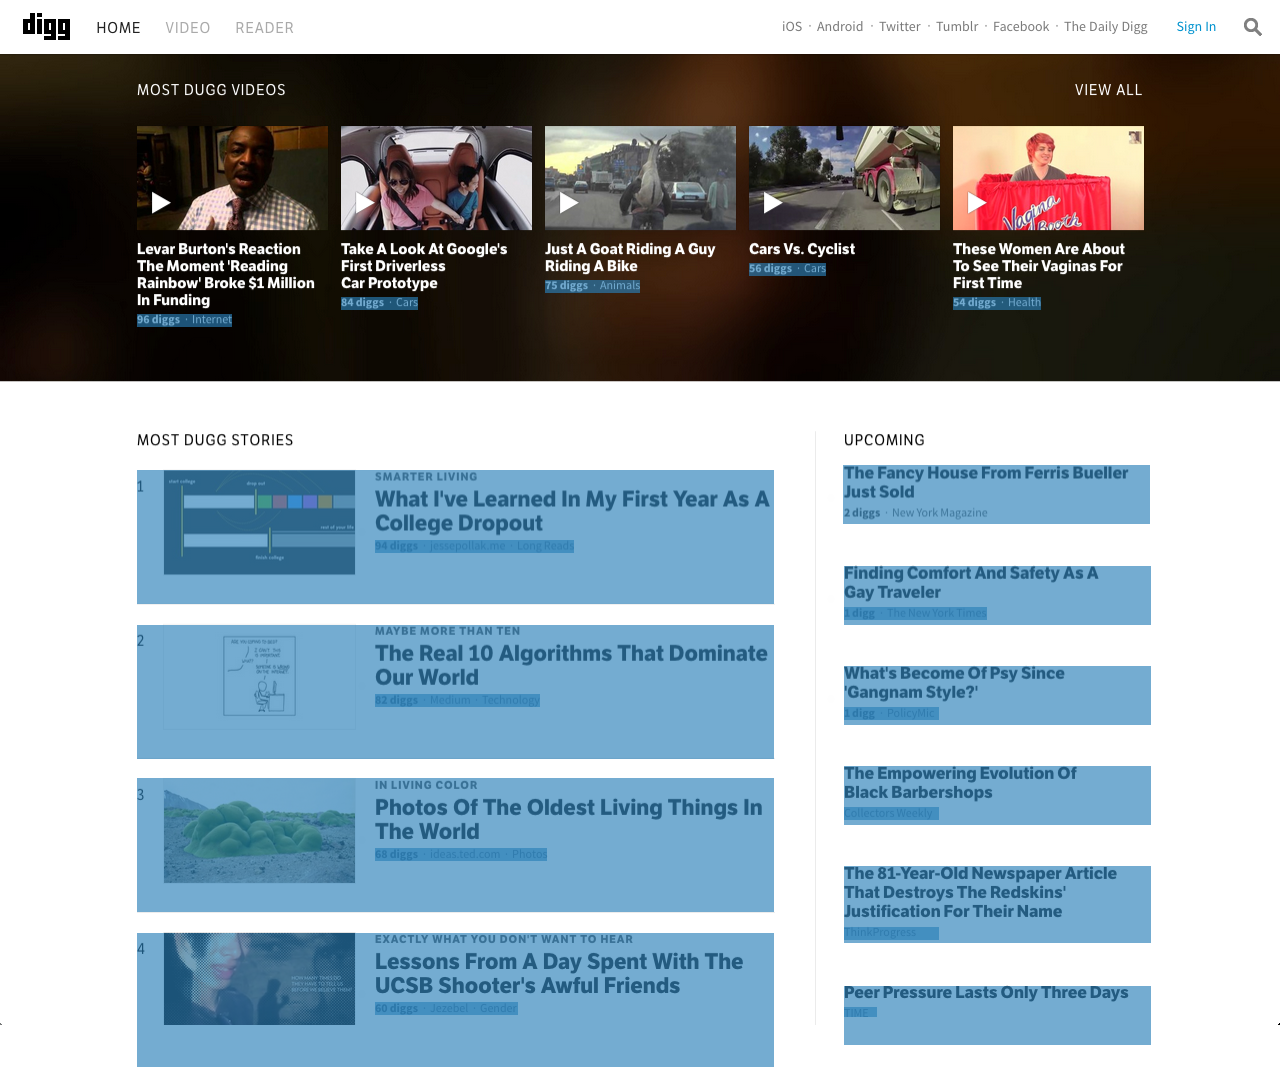
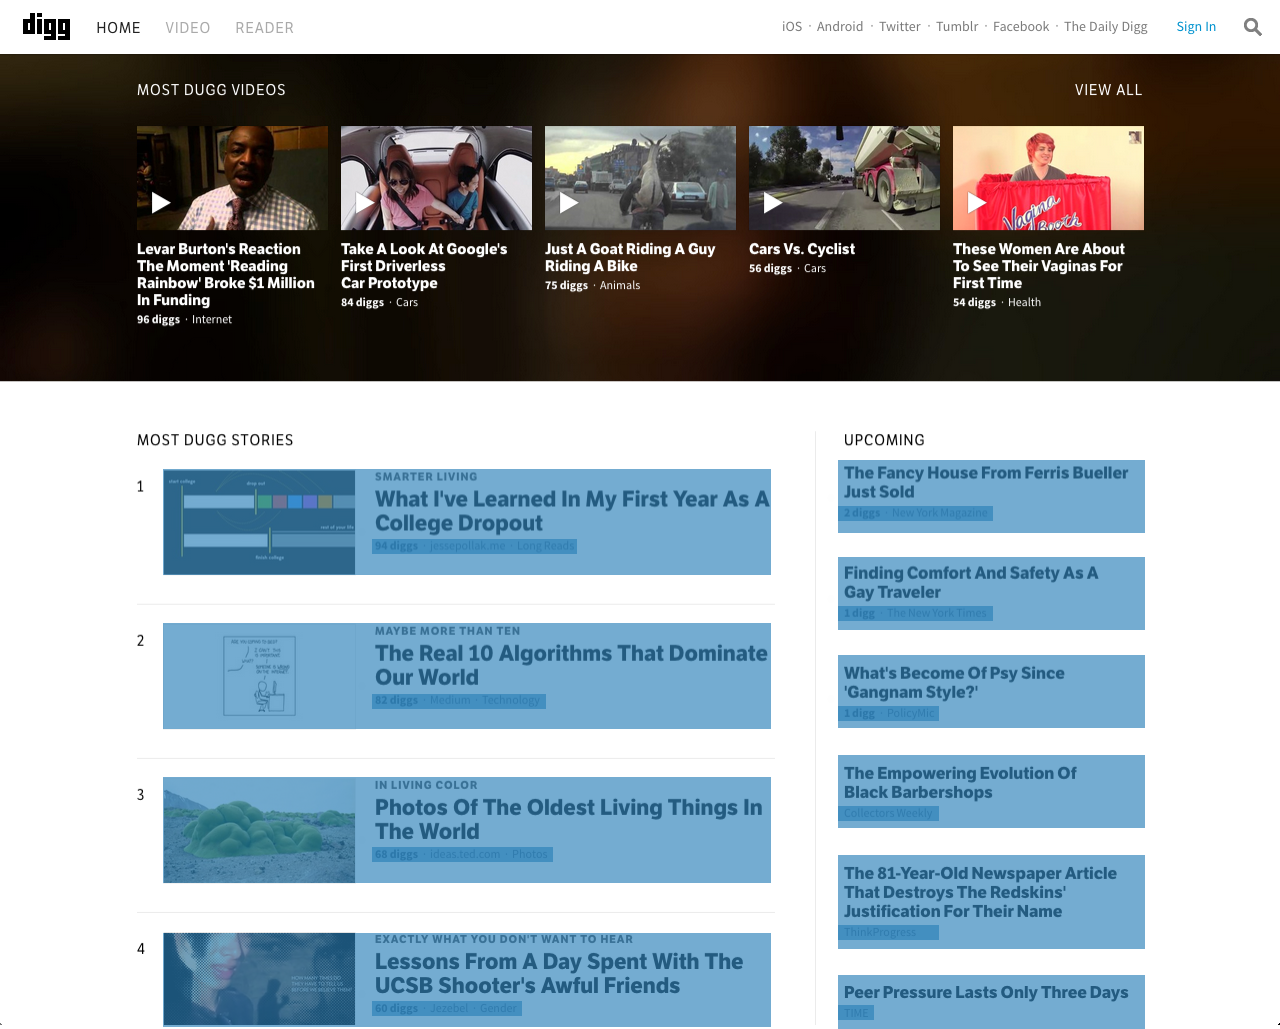
Update 'Examples' image

diff --git a/build/examples/index.html b/build/examples/index.html
@@ -1,1 +1,1 @@
-<!DOCTYPE html> <html lang=en> <head> <meta charset=utf-8> <meta content='IE=edge,chrome=1' http-equiv=X-UA-Compatible> <meta content='width=device-width, initial-scale=1.0' name=viewport> <title>Examples / Thinking Modular CSS</title> <link href="../assets/stylesheets/application.css" rel=stylesheet /> </head> <body class='examples examples_index' data-id=5> <a class=toggle href="#"><div class=toggle-icn> <div class=toggle-icn-stack> <b class=srt>Toggle</b> </div> </div> </a> <aside class=sidebar> <header class=header> <h1 class=header-title><a href="../">Thinking Modular CSS</a></h1> </header> <nav class=sidebar-nav> <a class=sidebar-link href="../">Summary</a> <a class=sidebar-link href="../intro/">Intro</a> <a class=sidebar-link href="../define/">Define</a> <a class=sidebar-link href="../process/">Process</a> <a class="sidebar-link is-active" href="./">Examples</a> <a class=sidebar-link href="../outro/">Outro</a> </nav> </aside> <div class=row> <div class='cell well'> <main class=content> <article> <h1>Examples</h1> <p>Now that we&rsquo;ve defined &ldquo;Modular CSS&rdquo; and talked about the process of discovering and writing patterns, let&rsquo;s take that knowledge and walk through some real sites and determine how we&rsquo;d structure our CSS.</p> <h2>Dribbble</h2> <p><a href="//dribbble.com/">http://dribbble.com/</a></p> <ol> <li>Identify</li> <li>Define</li> <li>Build</li> <li>Combine</li> <li>Refine</li> </ol> <p><img alt=Dribbble width=1280 height=1024 src="../assets/images/example-dribbble.png"/> <img alt=Dribbble width=1280 height=1024 src="../assets/images/example-dribbble-bottom.png"/></p> <h3>Structure &amp; Layout</h3> <p>First, we start by identifying the most reusable modules, the ones used for structure and layout.</p> <ul> <li>Row</li> <li>Cell</li> <li>Well</li> <li>Grid</li> </ul> <h4>Row</h4> <p>The <code>row</code> module handles width-spanning blocks.</p> <ul> <li>Full-width background colors</li> <li>Horizontal padding</li> </ul> <p><img alt=Dribbble width=1280 height=1024 src="../assets/images/example-dribbble-row-01.png"/> <img alt=Dribbble width=1280 height=1024 src="../assets/images/example-dribbble-row-02.png"/> <img alt=Dribbble width=1280 height=1024 src="../assets/images/example-dribbble-row-03.png"/> <img alt=Dribbble width=1280 height=1024 src="../assets/images/example-dribbble-row-04.png"/></p> <h4>Cell</h4> <p>The <code>cell</code> module handles width-limiting.</p> <ul> <li>Horizontal centering</li> <li><code>max-width</code></li> </ul> <p><img alt=Dribbble width=1280 height=1024 src="../assets/images/example-dribbble-cell-01.png"/> <img alt=Dribbble width=1280 height=1024 src="../assets/images/example-dribbble-cell-02.png"/></p> <h4>Well</h4> <p>The <code>well</code> module handles vertical spacing.</p> <ul> <li>Top/bottom margin</li> </ul> <p><img alt=Dribbble width=1280 height=1024 src="../assets/images/example-dribbble-well-01.png"/> <img alt=Dribbble width=1280 height=1024 src="../assets/images/example-dribbble-well-02.png"/></p> <h4>Grid</h4> <p>The <code>grid</code> module handles grid-based element arrangement.</p> <p><img alt=Dribbble width=1280 height=1024 src="../assets/images/example-dribbble-grid-01.png"/> <img alt=Dribbble width=1280 height=1024 src="../assets/images/example-dribbble-grid-02.png"/></p> <pre class="highlight html"><span class="nt">&lt;div</span> <span class="na">class=</span><span class="s">"row"</span><span class="nt">&gt;</span>&#x000A;  <span class="nt">&lt;div</span> <span class="na">class=</span><span class="s">"cell well"</span><span class="nt">&gt;</span>&#x000A;    <span class="nt">&lt;div</span> <span class="na">class=</span><span class="s">"grid"</span><span class="nt">&gt;</span>&#x000A;      <span class="c">&lt;!-- ... --&gt;</span>&#x000A;    <span class="nt">&lt;/div&gt;</span>&#x000A;  <span class="nt">&lt;/div&gt;</span>&#x000A;<span class="nt">&lt;/div&gt;</span></pre> <p>With these modules in place, we have a simple structure that we can use to set up the layout of the site.</p> <h3>Common Patterns</h3> <p>Next, we tackle the common patterns that we&rsquo;re used to seeing.</p> <ul> <li>List</li> <li>Thumb</li> <li>Icon</li> <li>Form</li> <li>Card</li> <li>Bucket</li> </ul> <h4>List</h4> <p>We can see that there are a lot of lists throughout the site.</p> <p><img alt=Dribbble width=1280 height=1024 src="../assets/images/example-dribbble-list-01.png"/> <img alt=Dribbble width=1280 height=1024 src="../assets/images/example-dribbble-list-02.png"/></p> <p>We have a few different types of lists:</p> <ul> <li>Inline</li> <li>Block</li> <li>Object (floated)</li> </ul> <h5>Thumb</h5> <p>We&rsquo;ll want a <code>thumb</code> module to handle our user thumbnails and create the circle avatars.</p> <p><img alt=Dribbble width=1280 height=1024 src="../assets/images/example-dribbble-thumb.png"/></p> <h4>Icon</h4> <p>We&rsquo;ll need an <code>icon</code> module to handle all the site-wide icons.</p> <p><img alt=Dribbble width=1280 height=1024 src="../assets/images/example-dribbble-icon-01.png"/> <img alt=Dribbble width=1280 height=1024 src="../assets/images/example-dribbble-icon-02.png"/></p> <h4>Form</h4> <p><img alt=Dribbble width=1280 height=1024 src="../assets/images/example-dribbble-form.png"/></p> <h4>Card</h4> <p><img alt=Dribbble width=1280 height=1024 src="../assets/images/example-dribbble-card.png"/></p> <h4>Bucket</h4> <p><img alt=Dribbble width=1280 height=1024 src="../assets/images/example-dribbble-bucket-01.png"/> <img alt=Dribbble width=1280 height=1024 src="../assets/images/example-dribbble-bucket-02.png"/></p> <h3>Unique Patterns</h3> <p>I&rsquo;m not seeing any unique patterns, but that might change as you build out the site.</p> <h3>Audit</h3> <p>Based on our assessment, we&rsquo;ll have these modules to build the primary page of our site, and set the foundation for building out more pages.</p> <ul> <li>Row</li> <li>Cell</li> <li>Well</li> <li>Grid</li> <li>List</li> <li>Thumb</li> <li>Icon</li> <li>Form</li> <li>Card</li> <li>Bucket</li> </ul> <p>Since it would take me all day to run through how to write all of these elements, I&rsquo;m going to spare you the pain of listening to me that long and provide a link to the code up on GitHub.</p> <p><strong>Link to code</strong></p> <h2>Digg</h2> <p><a href="//digg.com/">http://digg.com/</a></p> <ol> <li>Identify</li> <li>Define</li> <li>Build</li> <li>Combine</li> <li>Refine</li> </ol> <p><img alt=Digg width=1280 height=1024 src="../assets/images/example-digg-01.png"/> <img alt=Digg width=1280 height=1024 src="../assets/images/example-digg-02.png"/> <img alt=Digg width=1280 height=1024 src="../assets/images/example-digg-03.png"/></p> <h3>Structure &amp; Layout</h3> <p>First, we start by identifying the most reusable modules, the ones used for structure and layout.</p> <ul> <li>Row</li> <li>Cell</li> <li>Well</li> <li>Grid</li> </ul> <h4>Row</h4> <p>The <code>row</code> module handles width-spanning blocks.</p> <ul> <li>Full-width background colors</li> <li>Horizontal padding</li> </ul> <p><img alt=Digg width=1280 height=1024 src="../assets/images/example-digg-row-01.png"/> <img alt=Digg width=1280 height=1024 src="../assets/images/example-digg-row-02.png"/> <img alt=Digg width=1280 height=1024 src="../assets/images/example-digg-row-03.png"/> <img alt=Digg width=1280 height=1024 src="../assets/images/example-digg-row-04.png"/> <img alt=Digg width=1280 height=1024 src="../assets/images/example-digg-row-05.png"/></p> <h4>Cell</h4> <p>The <code>cell</code> module handles width-limiting.</p> <ul> <li>Horizontal centering</li> <li><code>max-width</code></li> </ul> <p><img alt=Digg width=1280 height=1024 src="../assets/images/example-digg-cell-01.png"/> <img alt=Digg width=1280 height=1024 src="../assets/images/example-digg-cell-02.png"/> <img alt=Digg width=1280 height=1024 src="../assets/images/example-digg-cell-03.png"/> <img alt=Digg width=1280 height=1024 src="../assets/images/example-digg-cell-04.png"/></p> <h4>Well</h4> <p>The <code>well</code> module handles vertical spacing.</p> <ul> <li>Top/bottom margin</li> </ul> <p><img alt=Digg width=1280 height=1024 src="../assets/images/example-digg-well-01.png"/> <img alt=Digg width=1280 height=1025 src="../assets/images/example-digg-well-02.png"/> <img alt=Digg width=1280 height=1024 src="../assets/images/example-digg-well-03.png"/></p> <h4>Grid</h4> <p>The <code>grid</code> module handles grid-based element arrangement.</p> <p><img alt=Digg width=1280 height=1024 src="../assets/images/example-digg-grid-01.png"/> <img alt=Digg width=1280 height=1025 src="../assets/images/example-digg-grid-02.png"/> <img alt=Digg width=1280 height=1024 src="../assets/images/example-digg-grid-03.png"/></p> <pre class="highlight html"><span class="nt">&lt;div</span> <span class="na">class=</span><span class="s">"row"</span><span class="nt">&gt;</span>&#x000A;  <span class="nt">&lt;div</span> <span class="na">class=</span><span class="s">"cell well"</span><span class="nt">&gt;</span>&#x000A;    <span class="nt">&lt;div</span> <span class="na">class=</span><span class="s">"grid"</span><span class="nt">&gt;</span>&#x000A;      <span class="c">&lt;!-- ... --&gt;</span>&#x000A;    <span class="nt">&lt;/div&gt;</span>&#x000A;  <span class="nt">&lt;/div&gt;</span>&#x000A;<span class="nt">&lt;/div&gt;</span></pre> <p>With these modules in place, we have a simple structure that we can use to set up the layout of the site.</p> <h3>Common Patterns</h3> <p>Next, we tackle the common patterns that we&rsquo;re used to seeing.</p> <ul> <li>List</li> <li>Icon</li> <li>Bucket</li> <li>Button</li> <li>Form</li> </ul> <h4>List</h4> <p>We can see that there some lists throughout the site.</p> <p><img alt=Digg width=1280 height=1024 src="../assets/images/example-digg-list-01.png"/> <img alt=Digg width=1280 height=1067 src="../assets/images/example-digg-list-02.png"/> <img alt=Digg width=1280 height=1024 src="../assets/images/example-digg-list-03.png"/></p> <h4>Icon</h4> <p>We&rsquo;ll need an <code>icon</code> module to handle all the site-wide icons.</p> <p><img alt=Digg width=1280 height=1024 src="../assets/images/example-digg-icon-01.png"/> <img alt=Digg width=1280 height=1025 src="../assets/images/example-digg-icon-02.png"/> <img alt=Digg width=1280 height=1024 src="../assets/images/example-digg-icon-03.png"/></p> <h4>Bucket</h4> <p><img alt=Digg width=1280 height=1025 src="../assets/images/example-digg-bucket.png"/></p> <h4>Button</h4> <p><img alt=Digg width=1280 height=1024 src="../assets/images/example-digg-button.png"/></p> <h4>Form</h4> <p><img alt=Digg width=1280 height=1024 src="../assets/images/example-digg-form.png"/></p> <h3>Unique Patterns</h3> <p>I&rsquo;m not seeing any unique patterns, but that might change as you build out the site.</p> <h3>Audit</h3> <p>Based on our assessment, we&rsquo;ll have these modules to build the primary page of our site, and set the foundation for building out more pages.</p> <ul> <li>Row</li> <li>Cell</li> <li>Well</li> <li>Grid</li> <li>List</li> <li>Icon</li> <li>Bucket</li> <li>Button</li> <li>Form</li> </ul> <p>Since it would take me all day to run through how to write all of these elements, I&rsquo;m going to spare you the pain of listening to me that long and provide a link to the code up on GitHub.</p> <p><strong>Link to code</strong></p> </article> <ul class=pager> <li class=pager-item> <a href="../process/">&larr; Previous page </a> </li> <li class=pager-item> <a href="../outro/">Next page &rarr; </a> </li> </ul> </main> </div> </div> <script src="//code.jquery.com/jquery-1.11.1.min.js"></script> <script src="../assets/javascripts/application.js"></script> </body> </html>
+<!DOCTYPE html> <html lang=en> <head> <meta charset=utf-8> <meta content='IE=edge,chrome=1' http-equiv=X-UA-Compatible> <meta content='width=device-width, initial-scale=1.0' name=viewport> <title>Examples / Thinking Modular CSS</title> <link href="../assets/stylesheets/application.css" rel=stylesheet /> </head> <body class='examples examples_index' data-id=5> <a class=toggle href="#"><div class=toggle-icn> <div class=toggle-icn-stack> <b class=srt>Toggle</b> </div> </div> </a> <aside class=sidebar> <header class=header> <h1 class=header-title><a href="../">Thinking Modular CSS</a></h1> </header> <nav class=sidebar-nav> <a class=sidebar-link href="../">Summary</a> <a class=sidebar-link href="../intro/">Intro</a> <a class=sidebar-link href="../define/">Define</a> <a class=sidebar-link href="../process/">Process</a> <a class="sidebar-link is-active" href="./">Examples</a> <a class=sidebar-link href="../outro/">Outro</a> </nav> </aside> <div class=row> <div class='cell well'> <main class=content> <article> <h1>Examples</h1> <p>Now that we&rsquo;ve defined &ldquo;Modular CSS&rdquo; and talked about the process of discovering and writing patterns, let&rsquo;s take that knowledge and walk through some real sites and determine how we&rsquo;d structure our CSS.</p> <h2>Dribbble</h2> <p><a href="//dribbble.com/">http://dribbble.com/</a></p> <ol> <li>Identify</li> <li>Define</li> <li>Build</li> <li>Combine</li> <li>Refine</li> </ol> <p><img alt=Dribbble width=1280 height=1024 src="../assets/images/example-dribbble.png"/> <img alt=Dribbble width=1280 height=1024 src="../assets/images/example-dribbble-bottom.png"/></p> <h3>Structure &amp; Layout</h3> <p>First, we start by identifying the most reusable modules, the ones used for structure and layout.</p> <ul> <li>Row</li> <li>Cell</li> <li>Well</li> <li>Grid</li> </ul> <h4>Row</h4> <p>The <code>row</code> module handles width-spanning blocks.</p> <ul> <li>Full-width background colors</li> <li>Horizontal padding</li> </ul> <p><img alt=Dribbble width=1280 height=1024 src="../assets/images/example-dribbble-row-01.png"/> <img alt=Dribbble width=1280 height=1024 src="../assets/images/example-dribbble-row-02.png"/> <img alt=Dribbble width=1280 height=1024 src="../assets/images/example-dribbble-row-03.png"/> <img alt=Dribbble width=1280 height=1024 src="../assets/images/example-dribbble-row-04.png"/></p> <h4>Cell</h4> <p>The <code>cell</code> module handles width-limiting.</p> <ul> <li>Horizontal centering</li> <li><code>max-width</code></li> </ul> <p><img alt=Dribbble width=1280 height=1024 src="../assets/images/example-dribbble-cell-01.png"/> <img alt=Dribbble width=1280 height=1024 src="../assets/images/example-dribbble-cell-02.png"/></p> <h4>Well</h4> <p>The <code>well</code> module handles vertical spacing.</p> <ul> <li>Top/bottom margin</li> </ul> <p><img alt=Dribbble width=1280 height=1024 src="../assets/images/example-dribbble-well-01.png"/> <img alt=Dribbble width=1280 height=1024 src="../assets/images/example-dribbble-well-02.png"/></p> <h4>Grid</h4> <p>The <code>grid</code> module handles grid-based element arrangement.</p> <p><img alt=Dribbble width=1280 height=1024 src="../assets/images/example-dribbble-grid-01.png"/> <img alt=Dribbble width=1280 height=1024 src="../assets/images/example-dribbble-grid-02.png"/></p> <pre class="highlight html"><span class="nt">&lt;div</span> <span class="na">class=</span><span class="s">"row"</span><span class="nt">&gt;</span>&#x000A;  <span class="nt">&lt;div</span> <span class="na">class=</span><span class="s">"cell well"</span><span class="nt">&gt;</span>&#x000A;    <span class="nt">&lt;div</span> <span class="na">class=</span><span class="s">"grid"</span><span class="nt">&gt;</span>&#x000A;      <span class="c">&lt;!-- ... --&gt;</span>&#x000A;    <span class="nt">&lt;/div&gt;</span>&#x000A;  <span class="nt">&lt;/div&gt;</span>&#x000A;<span class="nt">&lt;/div&gt;</span></pre> <p>With these modules in place, we have a simple structure that we can use to set up the layout of the site.</p> <h3>Common Patterns</h3> <p>Next, we tackle the common patterns that we&rsquo;re used to seeing.</p> <ul> <li>List</li> <li>Thumb</li> <li>Icon</li> <li>Form</li> <li>Card</li> <li>Bucket</li> </ul> <h4>List</h4> <p>We can see that there are a lot of lists throughout the site.</p> <p><img alt=Dribbble width=1280 height=1024 src="../assets/images/example-dribbble-list-01.png"/> <img alt=Dribbble width=1280 height=1024 src="../assets/images/example-dribbble-list-02.png"/></p> <p>We have a few different types of lists:</p> <ul> <li>Inline</li> <li>Block</li> <li>Object (floated)</li> </ul> <h5>Thumb</h5> <p>We&rsquo;ll want a <code>thumb</code> module to handle our user thumbnails and create the circle avatars.</p> <p><img alt=Dribbble width=1280 height=1024 src="../assets/images/example-dribbble-thumb.png"/></p> <h4>Icon</h4> <p>We&rsquo;ll need an <code>icon</code> module to handle all the site-wide icons.</p> <p><img alt=Dribbble width=1280 height=1024 src="../assets/images/example-dribbble-icon-01.png"/> <img alt=Dribbble width=1280 height=1024 src="../assets/images/example-dribbble-icon-02.png"/></p> <h4>Form</h4> <p><img alt=Dribbble width=1280 height=1024 src="../assets/images/example-dribbble-form.png"/></p> <h4>Card</h4> <p><img alt=Dribbble width=1280 height=1024 src="../assets/images/example-dribbble-card.png"/></p> <h4>Bucket</h4> <p><img alt=Dribbble width=1280 height=1024 src="../assets/images/example-dribbble-bucket-01.png"/> <img alt=Dribbble width=1280 height=1024 src="../assets/images/example-dribbble-bucket-02.png"/></p> <h3>Unique Patterns</h3> <p>I&rsquo;m not seeing any unique patterns, but that might change as you build out the site.</p> <h3>Audit</h3> <p>Based on our assessment, we&rsquo;ll have these modules to build the primary page of our site, and set the foundation for building out more pages.</p> <ul> <li>Row</li> <li>Cell</li> <li>Well</li> <li>Grid</li> <li>List</li> <li>Thumb</li> <li>Icon</li> <li>Form</li> <li>Card</li> <li>Bucket</li> </ul> <p>Since it would take me all day to run through how to write all of these elements, I&rsquo;m going to spare you the pain of listening to me that long and provide a link to the code up on GitHub.</p> <p><strong>Link to code</strong></p> <h2>Digg</h2> <p><a href="//digg.com/">http://digg.com/</a></p> <ol> <li>Identify</li> <li>Define</li> <li>Build</li> <li>Combine</li> <li>Refine</li> </ol> <p><img alt=Digg width=1280 height=1024 src="../assets/images/example-digg-01.png"/> <img alt=Digg width=1280 height=1024 src="../assets/images/example-digg-02.png"/> <img alt=Digg width=1280 height=1024 src="../assets/images/example-digg-03.png"/></p> <h3>Structure &amp; Layout</h3> <p>First, we start by identifying the most reusable modules, the ones used for structure and layout.</p> <ul> <li>Row</li> <li>Cell</li> <li>Well</li> <li>Grid</li> </ul> <h4>Row</h4> <p>The <code>row</code> module handles width-spanning blocks.</p> <ul> <li>Full-width background colors</li> <li>Horizontal padding</li> </ul> <p><img alt=Digg width=1280 height=1024 src="../assets/images/example-digg-row-01.png"/> <img alt=Digg width=1280 height=1024 src="../assets/images/example-digg-row-02.png"/> <img alt=Digg width=1280 height=1024 src="../assets/images/example-digg-row-03.png"/> <img alt=Digg width=1280 height=1024 src="../assets/images/example-digg-row-04.png"/> <img alt=Digg width=1280 height=1024 src="../assets/images/example-digg-row-05.png"/></p> <h4>Cell</h4> <p>The <code>cell</code> module handles width-limiting.</p> <ul> <li>Horizontal centering</li> <li><code>max-width</code></li> </ul> <p><img alt=Digg width=1280 height=1024 src="../assets/images/example-digg-cell-01.png"/> <img alt=Digg width=1280 height=1024 src="../assets/images/example-digg-cell-02.png"/> <img alt=Digg width=1280 height=1024 src="../assets/images/example-digg-cell-03.png"/> <img alt=Digg width=1280 height=1024 src="../assets/images/example-digg-cell-04.png"/></p> <h4>Well</h4> <p>The <code>well</code> module handles vertical spacing.</p> <ul> <li>Top/bottom margin</li> </ul> <p><img alt=Digg width=1280 height=1024 src="../assets/images/example-digg-well-01.png"/> <img alt=Digg width=1280 height=1025 src="../assets/images/example-digg-well-02.png"/> <img alt=Digg width=1280 height=1024 src="../assets/images/example-digg-well-03.png"/></p> <h4>Grid</h4> <p>The <code>grid</code> module handles grid-based element arrangement.</p> <p><img alt=Digg width=1280 height=1024 src="../assets/images/example-digg-grid-01.png"/> <img alt=Digg width=1280 height=1025 src="../assets/images/example-digg-grid-02.png"/> <img alt=Digg width=1280 height=1024 src="../assets/images/example-digg-grid-03.png"/></p> <pre class="highlight html"><span class="nt">&lt;div</span> <span class="na">class=</span><span class="s">"row"</span><span class="nt">&gt;</span>&#x000A;  <span class="nt">&lt;div</span> <span class="na">class=</span><span class="s">"cell well"</span><span class="nt">&gt;</span>&#x000A;    <span class="nt">&lt;div</span> <span class="na">class=</span><span class="s">"grid"</span><span class="nt">&gt;</span>&#x000A;      <span class="c">&lt;!-- ... --&gt;</span>&#x000A;    <span class="nt">&lt;/div&gt;</span>&#x000A;  <span class="nt">&lt;/div&gt;</span>&#x000A;<span class="nt">&lt;/div&gt;</span></pre> <p>With these modules in place, we have a simple structure that we can use to set up the layout of the site.</p> <h3>Common Patterns</h3> <p>Next, we tackle the common patterns that we&rsquo;re used to seeing.</p> <ul> <li>List</li> <li>Icon</li> <li>Bucket</li> <li>Button</li> <li>Form</li> </ul> <h4>List</h4> <p>We can see that there some lists throughout the site.</p> <p><img alt=Digg width=1280 height=1024 src="../assets/images/example-digg-list-01.png"/> <img alt=Digg width=1280 height=1029 src="../assets/images/example-digg-list-02.png"/> <img alt=Digg width=1280 height=1024 src="../assets/images/example-digg-list-03.png"/></p> <h4>Icon</h4> <p>We&rsquo;ll need an <code>icon</code> module to handle all the site-wide icons.</p> <p><img alt=Digg width=1280 height=1024 src="../assets/images/example-digg-icon-01.png"/> <img alt=Digg width=1280 height=1025 src="../assets/images/example-digg-icon-02.png"/> <img alt=Digg width=1280 height=1024 src="../assets/images/example-digg-icon-03.png"/></p> <h4>Bucket</h4> <p><img alt=Digg width=1280 height=1025 src="../assets/images/example-digg-bucket.png"/></p> <h4>Button</h4> <p><img alt=Digg width=1280 height=1024 src="../assets/images/example-digg-button.png"/></p> <h4>Form</h4> <p><img alt=Digg width=1280 height=1024 src="../assets/images/example-digg-form.png"/></p> <h3>Unique Patterns</h3> <p>I&rsquo;m not seeing any unique patterns, but that might change as you build out the site.</p> <h3>Audit</h3> <p>Based on our assessment, we&rsquo;ll have these modules to build the primary page of our site, and set the foundation for building out more pages.</p> <ul> <li>Row</li> <li>Cell</li> <li>Well</li> <li>Grid</li> <li>List</li> <li>Icon</li> <li>Bucket</li> <li>Button</li> <li>Form</li> </ul> <p>Since it would take me all day to run through how to write all of these elements, I&rsquo;m going to spare you the pain of listening to me that long and provide a link to the code up on GitHub.</p> <p><strong>Link to code</strong></p> </article> <ul class=pager> <li class=pager-item> <a href="../process/">&larr; Previous page </a> </li> <li class=pager-item> <a href="../outro/">Next page &rarr; </a> </li> </ul> </main> </div> </div> <script src="//code.jquery.com/jquery-1.11.1.min.js"></script> <script src="../assets/javascripts/application.js"></script> </body> </html>
